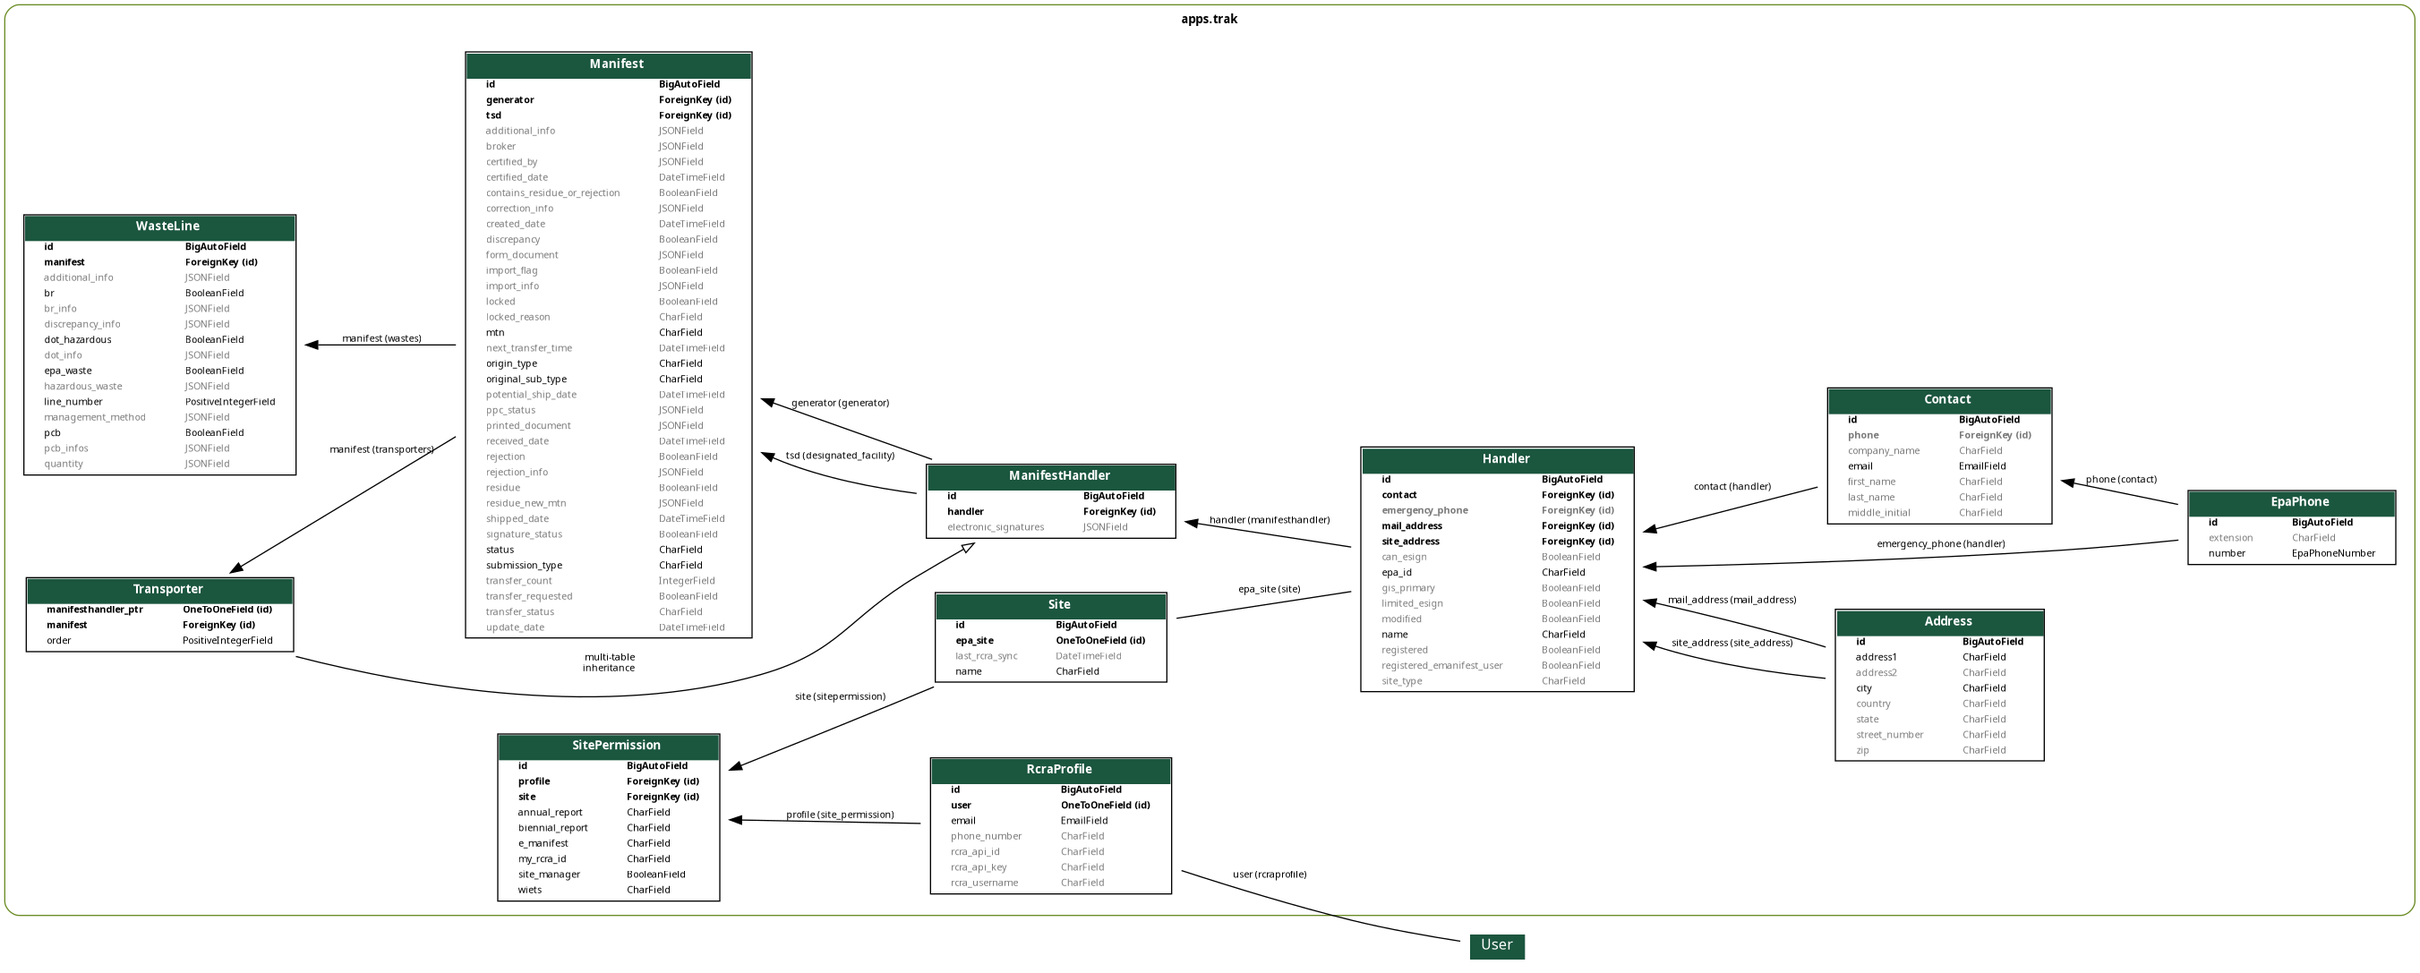
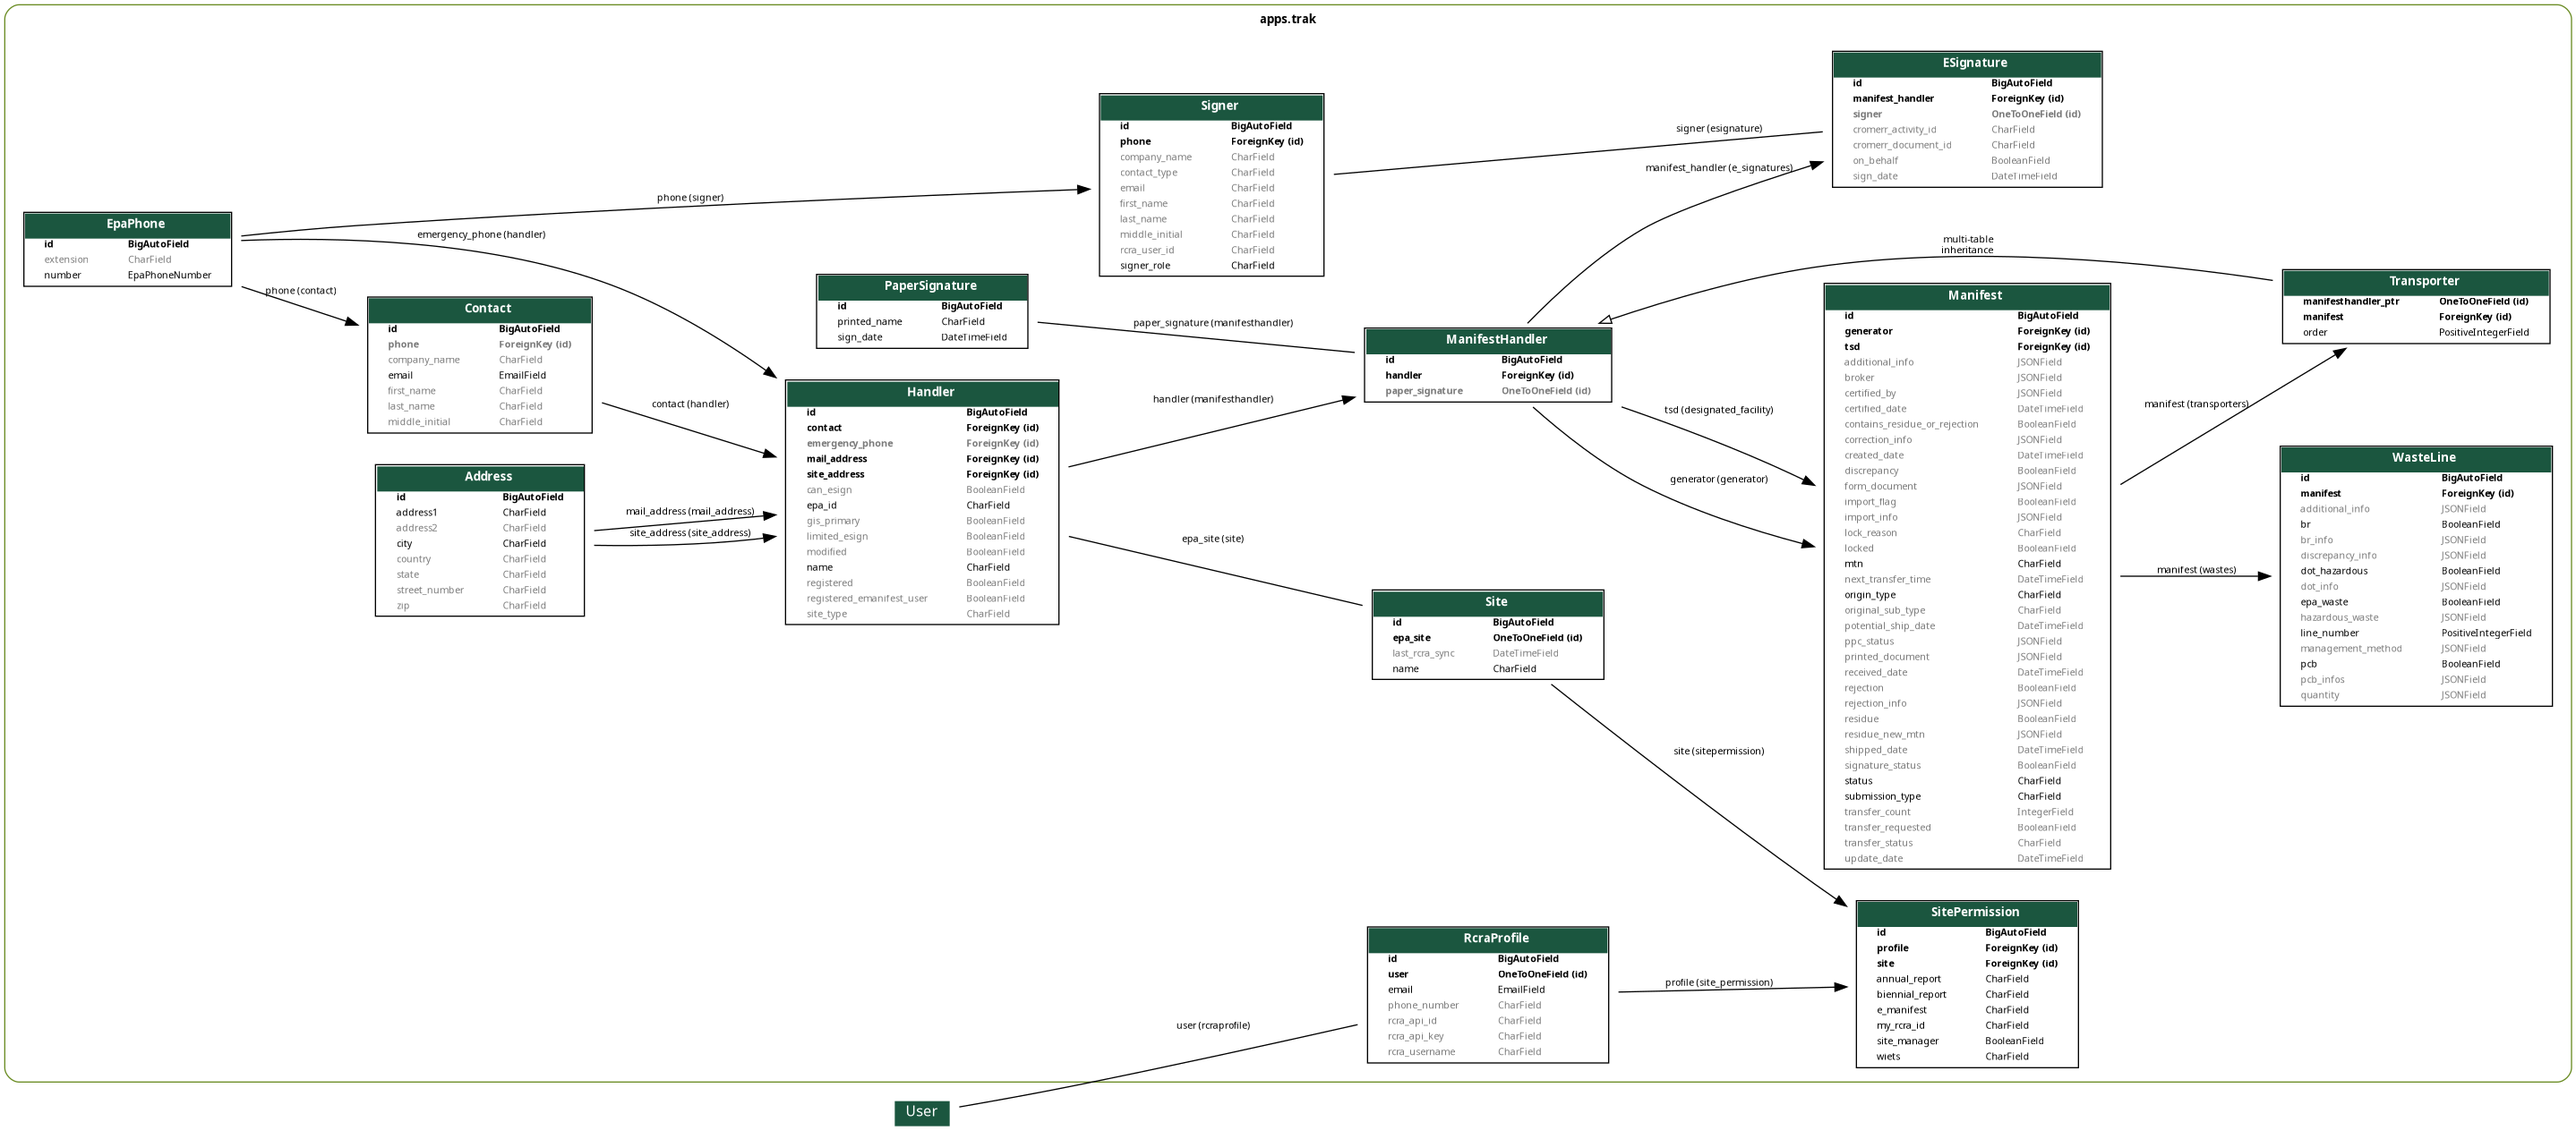
Paper signature model (#390)
* PaperSignature model layer definition and initial test suite

* add PaperSignature to ManifestHandler as OneToOneField

* update ERD with PaperSignature

diff --git a/client/src/components/Nav/Sidebar.tsx b/client/src/components/Nav/Sidebar.tsx
@@ -128,7 +128,7 @@ function Sidebar(): ReactElement | null {
                       icon={faNetworkWired}
                       className="sb-nav-link-icon text-primary"
                     />
-                    Swagger UI
+                    OpenAPI Docs
                   </a>
                 </nav>
               </div>

diff --git a/server/apps/trak/migrations/0003_papersignature_alter_manifesthandler_handler_and_more.py b/server/apps/trak/migrations/0003_papersignature_alter_manifesthandler_handler_and_more.py
@@ -1,0 +1,46 @@
+# Generated by Django 4.1.7 on 2023-03-09 16:43
+
+from django.db import migrations, models
+import django.db.models.deletion
+
+
+class Migration(migrations.Migration):
+    dependencies = [
+        ("trak", "0002_remove_manifest_locked_reason_and_more"),
+    ]
+
+    operations = [
+        migrations.CreateModel(
+            name="PaperSignature",
+            fields=[
+                (
+                    "id",
+                    models.BigAutoField(
+                        auto_created=True, primary_key=True, serialize=False, verbose_name="ID"
+                    ),
+                ),
+                ("printed_name", models.CharField(max_length=255)),
+                ("sign_date", models.DateTimeField()),
+            ],
+        ),
+        migrations.AlterField(
+            model_name="manifesthandler",
+            name="handler",
+            field=models.ForeignKey(
+                help_text="Hazardous waste handler associated with the manifest",
+                on_delete=django.db.models.deletion.CASCADE,
+                to="trak.handler",
+            ),
+        ),
+        migrations.AddField(
+            model_name="manifesthandler",
+            name="paper_signature",
+            field=models.OneToOneField(
+                blank=True,
+                help_text="The signature associated with hazardous waste custody exchange",
+                null=True,
+                on_delete=django.db.models.deletion.CASCADE,
+                to="trak.papersignature",
+            ),
+        ),
+    ]

diff --git a/server/apps/trak/models/handler_model.py b/server/apps/trak/models/handler_model.py
@@ -199,7 +199,8 @@ class ManifestHandlerManager(models.Manager):
 
 class ManifestHandler(models.Model):
     """
-    ManifestHandler
+    ManifestHandler which contains a reference to hazardous waste
+    handler and data specific to that handler on the given manifest.
     """
 
     objects = ManifestHandlerManager()
@@ -207,6 +208,14 @@ class ManifestHandler(models.Model):
     handler = models.ForeignKey(
         "Handler",
         on_delete=models.CASCADE,
+        help_text="Hazardous waste handler associated with the manifest",
+    )
+    paper_signature = models.OneToOneField(
+        "PaperSignature",
+        on_delete=models.CASCADE,
+        null=True,
+        blank=True,
+        help_text="The signature associated with hazardous waste custody exchange",
     )
 
     def __str__(self):

diff --git a/server/apps/trak/models/signature_model.py b/server/apps/trak/models/signature_model.py
@@ -144,3 +144,25 @@ class ESignature(models.Model):
 
     class Meta:
         verbose_name = "e-Signature"
+
+
+class PaperSignature(models.Model):
+    """
+    Contains printed name of the handler Signee and Date of Signature.
+    """
+
+    printed_name = models.CharField(
+        max_length=255,
+    )
+    sign_date = models.DateTimeField()
+
+    def __str__(self):
+        return f"{self.printed_name} ({self.sign_date.strftime('%Y-%m-%d %H:%M:%S')})"
+
+    def __repr__(self):
+        return (
+            f"<PaperSignature printedName='{self.printed_name}' signatureDate='{self.sign_date}'>"
+        )
+
+    def __hash__(self):
+        return hash((self.printed_name, self.sign_date))

diff --git a/server/apps/trak/tests/models/test_signatures.py b/server/apps/trak/tests/models/test_signatures.py
@@ -1,0 +1,20 @@
+from datetime import datetime
+
+import pytest
+
+from apps.trak.models import PaperSignature
+
+
+@pytest.fixture
+def paper_signature(db):
+    return PaperSignature.objects.create(printed_name="David Graham", sign_date=datetime.utcnow())
+
+
+class TestPaperSignatureModel:
+    """Test related to the PaperSignature model and its API"""
+
+    def test_required_fields(self, db):
+        paper_signature = PaperSignature.objects.create(
+            printed_name="David Graham", sign_date=datetime.utcnow()
+        )
+        assert isinstance(paper_signature, PaperSignature)

diff --git a/server/apps/trak/models/__init__.py b/server/apps/trak/models/__init__.py
@@ -6,7 +6,7 @@ from .contact_model import Contact, EpaPhone
 from .handler_model import Handler, ManifestHandler
 from .manifest_model import Manifest
 from .rcra_profile_model import RcraProfile
-from .signature_model import ESignature, Signer
+from .signature_model import ESignature, PaperSignature, Signer
 from .site_model import Site
 from .site_permission_model import SitePermission
 from .transporter_model import Transporter

diff --git a/server/haztrak/urls.py b/server/haztrak/urls.py
@@ -17,6 +17,9 @@ from django.contrib import admin
 from django.urls import include, path
 from drf_spectacular.views import SpectacularAPIView, SpectacularSwaggerView
 
+# Change the Django Admin page title
+admin.site.site_header = "Haztrak Admin"
+
 urlpatterns = [
     path("admin/", admin.site.urls),
     path("api/trak/", include("apps.trak.urls")),

diff --git a/server/apps/trak/tests/models/test_profile.py b/server/apps/trak/tests/models/test_profile.py
@@ -1,5 +1,5 @@
 class TestRcraProfileModel:
-    """Test related to the RcraProfile model and it's API"""
+    """Test related to the RcraProfile model and its API"""
 
     def test_is_api_user_returns_false_one_empty(self, db, test_user_profile):
         test_user_profile.rcra_api_id = None
